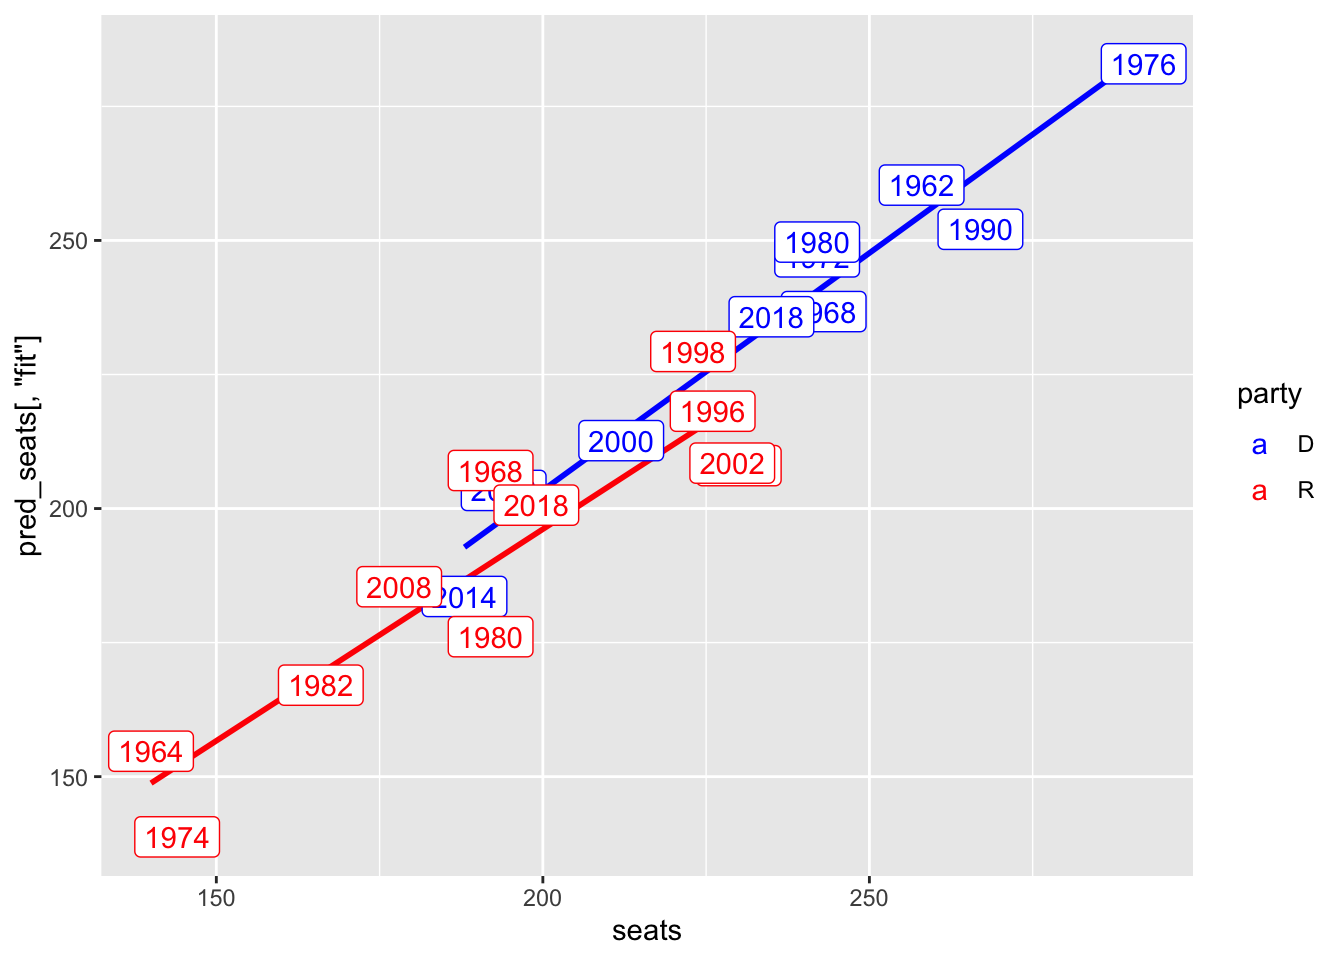
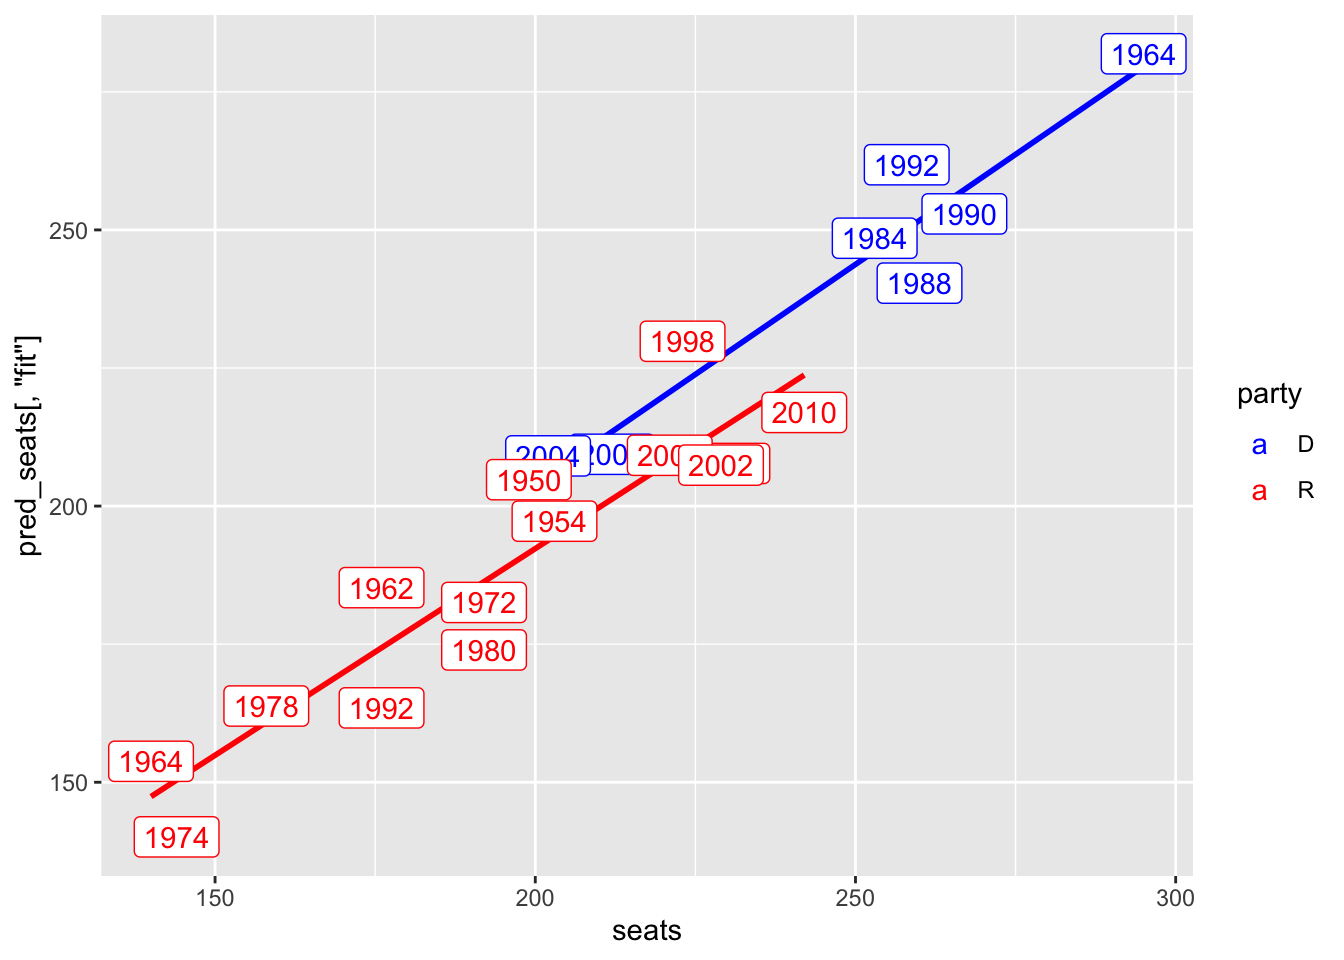
ohio prediction

diff --git a/public/post/2022-10-23-shocks/index.html b/public/post/2022-10-23-shocks/index.html
@@ -114,45 +114,45 @@ and economic data (gdp growth).</p>
 ##                                   seats      majorvote_pct
 ##                                    (1)            (2)     
 ## ----------------------------------------------------------
-## Inc_party_pres                  -60.359***     -4.450**   
-##                                  (17.301)       (2.060)   
+## Inc_party_pres                  -60.628***     -5.407***  
+##                                  (15.773)       (1.834)   
 ##                                                           
-## MidtermYear                      12.405**      2.181***   
-##                                  (5.763)        (0.751)   
+## MidtermYear                     14.767***      2.601***   
+##                                  (5.330)        (0.735)   
 ##                                                           
-## approval                        -0.647***      -0.073***  
-##                                  (0.203)        (0.024)   
+## approval                        -0.647***      -0.080***  
+##                                  (0.203)        (0.025)   
 ##                                                           
-## GDP_growth_pct                   -1.089*        -0.097    
-##                                  (0.555)        (0.067)   
+## GDP_growth_pct                   -0.929*        -0.082    
+##                                  (0.508)        (0.063)   
 ##                                                           
-## poll_pct                         2.288***      0.309***   
-##                                  (0.494)        (0.058)   
+## poll_pct                         2.124***      0.315***   
+##                                  (0.488)        (0.060)   
 ##                                                           
-## lag_seats                        0.572***                 
-##                                  (0.085)                  
+## lag_seats                        0.593***                 
+##                                  (0.073)                  
 ##                                                           
-## lag_pv                                         0.348***   
-##                                                 (0.105)   
+## lag_pv                                         0.399***   
+##                                                 (0.099)   
 ##                                                           
-## Inc_party_pres:MidtermYear      -30.712***     -4.999***  
-##                                  (9.269)        (1.251)   
+## Inc_party_pres:MidtermYear      -30.683***     -5.601***  
+##                                  (7.536)        (1.125)   
 ##                                                           
-## Inc_party_pres:approval          1.097***       0.096**   
-##                                  (0.331)        (0.039)   
+## Inc_party_pres:approval          1.080***      0.121***   
+##                                  (0.313)        (0.037)   
 ##                                                           
-## Inc_party_pres:GDP_growth_pct    1.671**         0.114    
-##                                  (0.792)        (0.097)   
+## Inc_party_pres:GDP_growth_pct    1.651**         0.129    
+##                                  (0.711)        (0.090)   
 ##                                                           
-## Constant                          28.198       22.611***  
-##                                  (17.696)       (3.983)   
+## Constant                          28.775       19.578***  
+##                                  (18.688)       (3.788)   
 ##                                                           
 ## ----------------------------------------------------------
 ## Observations                        51            51      
-## R2                                0.912          0.866    
-## Adjusted R2                       0.893          0.836    
-## Residual Std. Error (df = 41)     12.140         1.480    
-## F Statistic (df = 9; 41)        47.494***      29.412***  
+## R2                                0.924          0.890    
+## Adjusted R2                       0.907          0.866    
+## Residual Std. Error (df = 41)     11.023         1.379    
+## F Statistic (df = 9; 41)        55.141***      36.935***  
 ## ==========================================================
 ## Note:                          *p&lt;0.1; **p&lt;0.05; ***p&lt;0.01</code></pre>
 <p>As the model output shows, almost all variables are significant at the 5% level.
@@ -168,8 +168,8 @@ is uncontested.</p>
 <pre><code>## # A tibble: 2 × 4
 ##   party  year pred_seats[,&quot;fit&quot;] [,&quot;lwr&quot;] [,&quot;upr&quot;] pred_vote[,&quot;fit&quot;] [,&quot;lwr&quot;]
 ##   &lt;chr&gt; &lt;dbl&gt;              &lt;dbl&gt;    &lt;dbl&gt;    &lt;dbl&gt;             &lt;dbl&gt;    &lt;dbl&gt;
-## 1 D      2022               198.     171.     225.              48.0     44.8
-## 2 R      2022               238.     212.     264.              52.5     49.4
+## 1 D      2022               197.     174.     221.              47.6     44.6
+## 2 R      2022               238.     214.     262.              52.4     49.5
 ## # … with 1 more variable: pred_vote[3] &lt;dbl&gt;</code></pre>
 <p>As the graphs above show, the model fits fairly well across the testing dataset. And,
 the prediction for 2022 is that the Democrats will get 207 seats with the Republicans
@@ -188,12 +188,6 @@ provided by my simulations.</p>
 structure din the long format with the unit of analysis at the candidate*year. One
 important data choice was that I removed uncontested races, but included a term for
 whether the prior election was uncontested.</p>
-<pre class="r"><code>lm_oh&lt;-lm(pv2p~log(term+1)+prev+same_party*MidtermYear,data=dat)
-
-oh_22&lt;-tibble(year=c(2022,2022),party=c(&#39;R&#39;,&#39;D&#39;),term=c(16,0),Status=c(&#39;Incumbent&#39;,&#39;Challenger&#39;),prev=c(53.7,46.3),
-              MidtermYear=c(1,1),same_party=c(0,1),party_support=c(45.3,44.7))
-
-stargazer(lm_oh,type=&#39;text&#39;)</code></pre>
 <pre><code>## 
 ## ==================================================
 ##                            Dependent variable:    
@@ -226,15 +220,11 @@ stargazer(lm_oh,type=&#39;text&#39;)</code></pre>
 ## F Statistic              10.491*** (df = 5; 64)   
 ## ==================================================
 ## Note:                  *p&lt;0.1; **p&lt;0.05; ***p&lt;0.01</code></pre>
-<pre class="r"><code>oh_22$pred&lt;-predict(lm_oh,oh_22,interval=&#39;prediction&#39;)
-oh_22[,1:3,7:9]</code></pre>
-<pre><code>## Warning in drop &amp;&amp; length(xo) == 1L: &#39;length(x) = 3 &gt; 1&#39; in coercion to
-## &#39;logical(1)&#39;</code></pre>
-<pre><code>## # A tibble: 2 × 3
-##    year party  term
-##   &lt;dbl&gt; &lt;chr&gt; &lt;dbl&gt;
-## 1  2022 R        16
-## 2  2022 D         0</code></pre>
+<pre><code>## # A tibble: 2 × 6
+##    year party  term same_party party_support pred[,&quot;fit&quot;] [,&quot;lwr&quot;] [,&quot;upr&quot;]
+##   &lt;dbl&gt; &lt;chr&gt; &lt;dbl&gt;      &lt;dbl&gt;         &lt;dbl&gt;        &lt;dbl&gt;    &lt;dbl&gt;    &lt;dbl&gt;
+## 1  2022 R        16          0          45.3         65.3     46.3     84.2
+## 2  2022 D         0          1          44.7         41.7     23.5     59.8</code></pre>
 <p>This model for Ohio-01 predicts that Incumbent Steve Chabot (R) will receive about 65% of the vote,
 while challenger Greg Landsman (D) will get about 42% of the vote. This is very different
 from the few polls that have been released, suggesting each candidate is at about 47% of the vote.
@@ -261,7 +251,7 @@ because there are so few years that have data with this information.</p>
         		<footer>
 			
 			<span>
-			&copy; <time datetime="2022-10-26 13:24:55.371772 -0400 EDT m=&#43;0.183934542">2022</time> . Made with <a href='https://gohugo.io'>Hugo</a> using the <a href='https://github.com/EmielH/tale-hugo/'>Tale</a> theme.
+			&copy; <time datetime="2022-10-26 13:35:22.703847 -0400 EDT m=&#43;0.183132918">2022</time> . Made with <a href='https://gohugo.io'>Hugo</a> using the <a href='https://github.com/EmielH/tale-hugo/'>Tale</a> theme.
 			</span>
 		</footer>
 

diff --git a/content/post/2022-10-23-shocks/index.html b/content/post/2022-10-23-shocks/index.html
@@ -64,45 +64,45 @@ and economic data (gdp growth).</p>
 ##                                   seats      majorvote_pct
 ##                                    (1)            (2)     
 ## ----------------------------------------------------------
-## Inc_party_pres                  -60.359***     -4.450**   
-##                                  (17.301)       (2.060)   
+## Inc_party_pres                  -60.628***     -5.407***  
+##                                  (15.773)       (1.834)   
 ##                                                           
-## MidtermYear                      12.405**      2.181***   
-##                                  (5.763)        (0.751)   
+## MidtermYear                     14.767***      2.601***   
+##                                  (5.330)        (0.735)   
 ##                                                           
-## approval                        -0.647***      -0.073***  
-##                                  (0.203)        (0.024)   
+## approval                        -0.647***      -0.080***  
+##                                  (0.203)        (0.025)   
 ##                                                           
-## GDP_growth_pct                   -1.089*        -0.097    
-##                                  (0.555)        (0.067)   
+## GDP_growth_pct                   -0.929*        -0.082    
+##                                  (0.508)        (0.063)   
 ##                                                           
-## poll_pct                         2.288***      0.309***   
-##                                  (0.494)        (0.058)   
+## poll_pct                         2.124***      0.315***   
+##                                  (0.488)        (0.060)   
 ##                                                           
-## lag_seats                        0.572***                 
-##                                  (0.085)                  
+## lag_seats                        0.593***                 
+##                                  (0.073)                  
 ##                                                           
-## lag_pv                                         0.348***   
-##                                                 (0.105)   
+## lag_pv                                         0.399***   
+##                                                 (0.099)   
 ##                                                           
-## Inc_party_pres:MidtermYear      -30.712***     -4.999***  
-##                                  (9.269)        (1.251)   
+## Inc_party_pres:MidtermYear      -30.683***     -5.601***  
+##                                  (7.536)        (1.125)   
 ##                                                           
-## Inc_party_pres:approval          1.097***       0.096**   
-##                                  (0.331)        (0.039)   
+## Inc_party_pres:approval          1.080***      0.121***   
+##                                  (0.313)        (0.037)   
 ##                                                           
-## Inc_party_pres:GDP_growth_pct    1.671**         0.114    
-##                                  (0.792)        (0.097)   
+## Inc_party_pres:GDP_growth_pct    1.651**         0.129    
+##                                  (0.711)        (0.090)   
 ##                                                           
-## Constant                          28.198       22.611***  
-##                                  (17.696)       (3.983)   
+## Constant                          28.775       19.578***  
+##                                  (18.688)       (3.788)   
 ##                                                           
 ## ----------------------------------------------------------
 ## Observations                        51            51      
-## R2                                0.912          0.866    
-## Adjusted R2                       0.893          0.836    
-## Residual Std. Error (df = 41)     12.140         1.480    
-## F Statistic (df = 9; 41)        47.494***      29.412***  
+## R2                                0.924          0.890    
+## Adjusted R2                       0.907          0.866    
+## Residual Std. Error (df = 41)     11.023         1.379    
+## F Statistic (df = 9; 41)        55.141***      36.935***  
 ## ==========================================================
 ## Note:                          *p&lt;0.1; **p&lt;0.05; ***p&lt;0.01</code></pre>
 <p>As the model output shows, almost all variables are significant at the 5% level.
@@ -118,8 +118,8 @@ is uncontested.</p>
 <pre><code>## # A tibble: 2 × 4
 ##   party  year pred_seats[,&quot;fit&quot;] [,&quot;lwr&quot;] [,&quot;upr&quot;] pred_vote[,&quot;fit&quot;] [,&quot;lwr&quot;]
 ##   &lt;chr&gt; &lt;dbl&gt;              &lt;dbl&gt;    &lt;dbl&gt;    &lt;dbl&gt;             &lt;dbl&gt;    &lt;dbl&gt;
-## 1 D      2022               198.     171.     225.              48.0     44.8
-## 2 R      2022               238.     212.     264.              52.5     49.4
+## 1 D      2022               197.     174.     221.              47.6     44.6
+## 2 R      2022               238.     214.     262.              52.4     49.5
 ## # … with 1 more variable: pred_vote[3] &lt;dbl&gt;</code></pre>
 <p>As the graphs above show, the model fits fairly well across the testing dataset. And,
 the prediction for 2022 is that the Democrats will get 207 seats with the Republicans
@@ -138,12 +138,6 @@ provided by my simulations.</p>
 structure din the long format with the unit of analysis at the candidate*year. One
 important data choice was that I removed uncontested races, but included a term for
 whether the prior election was uncontested.</p>
-<pre class="r"><code>lm_oh&lt;-lm(pv2p~log(term+1)+prev+same_party*MidtermYear,data=dat)
-
-oh_22&lt;-tibble(year=c(2022,2022),party=c(&#39;R&#39;,&#39;D&#39;),term=c(16,0),Status=c(&#39;Incumbent&#39;,&#39;Challenger&#39;),prev=c(53.7,46.3),
-              MidtermYear=c(1,1),same_party=c(0,1),party_support=c(45.3,44.7))
-
-stargazer(lm_oh,type=&#39;text&#39;)</code></pre>
 <pre><code>## 
 ## ==================================================
 ##                            Dependent variable:    
@@ -176,15 +170,11 @@ stargazer(lm_oh,type=&#39;text&#39;)</code></pre>
 ## F Statistic              10.491*** (df = 5; 64)   
 ## ==================================================
 ## Note:                  *p&lt;0.1; **p&lt;0.05; ***p&lt;0.01</code></pre>
-<pre class="r"><code>oh_22$pred&lt;-predict(lm_oh,oh_22,interval=&#39;prediction&#39;)
-oh_22[,1:3,7:9]</code></pre>
-<pre><code>## Warning in drop &amp;&amp; length(xo) == 1L: &#39;length(x) = 3 &gt; 1&#39; in coercion to
-## &#39;logical(1)&#39;</code></pre>
-<pre><code>## # A tibble: 2 × 3
-##    year party  term
-##   &lt;dbl&gt; &lt;chr&gt; &lt;dbl&gt;
-## 1  2022 R        16
-## 2  2022 D         0</code></pre>
+<pre><code>## # A tibble: 2 × 6
+##    year party  term same_party party_support pred[,&quot;fit&quot;] [,&quot;lwr&quot;] [,&quot;upr&quot;]
+##   &lt;dbl&gt; &lt;chr&gt; &lt;dbl&gt;      &lt;dbl&gt;         &lt;dbl&gt;        &lt;dbl&gt;    &lt;dbl&gt;    &lt;dbl&gt;
+## 1  2022 R        16          0          45.3         65.3     46.3     84.2
+## 2  2022 D         0          1          44.7         41.7     23.5     59.8</code></pre>
 <p>This model for Ohio-01 predicts that Incumbent Steve Chabot (R) will receive about 65% of the vote,
 while challenger Greg Landsman (D) will get about 42% of the vote. This is very different
 from the few polls that have been released, suggesting each candidate is at about 47% of the vote.

diff --git a/public/post/2022-09-10-blog-post-1/index.html b/public/post/2022-09-10-blog-post-1/index.html
@@ -134,7 +134,7 @@ seat share, so this blog is more exploring trends than asserting exact ramificat
         		<footer>
 			
 			<span>
-			&copy; <time datetime="2022-10-26 13:24:55.397489 -0400 EDT m=&#43;0.209652501">2022</time> . Made with <a href='https://gohugo.io'>Hugo</a> using the <a href='https://github.com/EmielH/tale-hugo/'>Tale</a> theme.
+			&copy; <time datetime="2022-10-26 13:35:22.724141 -0400 EDT m=&#43;0.203428043">2022</time> . Made with <a href='https://gohugo.io'>Hugo</a> using the <a href='https://github.com/EmielH/tale-hugo/'>Tale</a> theme.
 			</span>
 		</footer>
 

diff --git a/public/post/2022-10-07-air-war/index.html b/public/post/2022-10-07-air-war/index.html
@@ -203,7 +203,7 @@ translation can be tricky being calculated in terms of log odds. Finally, I will
         		<footer>
 			
 			<span>
-			&copy; <time datetime="2022-10-26 13:24:55.364309 -0400 EDT m=&#43;0.176471084">2022</time> . Made with <a href='https://gohugo.io'>Hugo</a> using the <a href='https://github.com/EmielH/tale-hugo/'>Tale</a> theme.
+			&copy; <time datetime="2022-10-26 13:35:22.696801 -0400 EDT m=&#43;0.176087459">2022</time> . Made with <a href='https://gohugo.io'>Hugo</a> using the <a href='https://github.com/EmielH/tale-hugo/'>Tale</a> theme.
 			</span>
 		</footer>
 

diff --git a/public/post/2022-09-15-blog-post-2-economy/index.html b/public/post/2022-09-15-blog-post-2-economy/index.html
@@ -234,7 +234,7 @@ have grand implications for house popular vote/seat share.</p>
         		<footer>
 			
 			<span>
-			&copy; <time datetime="2022-10-26 13:24:55.412441 -0400 EDT m=&#43;0.224604376">2022</time> . Made with <a href='https://gohugo.io'>Hugo</a> using the <a href='https://github.com/EmielH/tale-hugo/'>Tale</a> theme.
+			&copy; <time datetime="2022-10-26 13:35:22.747122 -0400 EDT m=&#43;0.226408918">2022</time> . Made with <a href='https://gohugo.io'>Hugo</a> using the <a href='https://github.com/EmielH/tale-hugo/'>Tale</a> theme.
 			</span>
 		</footer>
 

diff --git a/public/post/2022-10-01-incumbency/index.html b/public/post/2022-10-01-incumbency/index.html
@@ -356,7 +356,7 @@ to better model these two variables.</p>
         		<footer>
 			
 			<span>
-			&copy; <time datetime="2022-10-26 13:24:55.399613 -0400 EDT m=&#43;0.211776501">2022</time> . Made with <a href='https://gohugo.io'>Hugo</a> using the <a href='https://github.com/EmielH/tale-hugo/'>Tale</a> theme.
+			&copy; <time datetime="2022-10-26 13:35:22.727545 -0400 EDT m=&#43;0.206831334">2022</time> . Made with <a href='https://gohugo.io'>Hugo</a> using the <a href='https://github.com/EmielH/tale-hugo/'>Tale</a> theme.
 			</span>
 		</footer>
 

diff --git a/public/post/2022-10-16-ground-game/index.html b/public/post/2022-10-16-ground-game/index.html
@@ -212,7 +212,7 @@ so it is more fit for models.</p>
         		<footer>
 			
 			<span>
-			&copy; <time datetime="2022-10-26 13:24:55.36432 -0400 EDT m=&#43;0.176481876">2022</time> . Made with <a href='https://gohugo.io'>Hugo</a> using the <a href='https://github.com/EmielH/tale-hugo/'>Tale</a> theme.
+			&copy; <time datetime="2022-10-26 13:35:22.696846 -0400 EDT m=&#43;0.176132126">2022</time> . Made with <a href='https://gohugo.io'>Hugo</a> using the <a href='https://github.com/EmielH/tale-hugo/'>Tale</a> theme.
 			</span>
 		</footer>
 

diff --git a/public/post/2022-09-23-polling/index.html b/public/post/2022-09-23-polling/index.html
@@ -210,7 +210,7 @@ my model and generic
         		<footer>
 			
 			<span>
-			&copy; <time datetime="2022-10-26 13:24:55.410104 -0400 EDT m=&#43;0.222267542">2022</time> . Made with <a href='https://gohugo.io'>Hugo</a> using the <a href='https://github.com/EmielH/tale-hugo/'>Tale</a> theme.
+			&copy; <time datetime="2022-10-26 13:35:22.743927 -0400 EDT m=&#43;0.223214543">2022</time> . Made with <a href='https://gohugo.io'>Hugo</a> using the <a href='https://github.com/EmielH/tale-hugo/'>Tale</a> theme.
 			</span>
 		</footer>
 

diff --git a/public/index.html b/public/index.html
@@ -157,7 +157,7 @@
         		<footer>
 			
 			<span>
-			&copy; <time datetime="2022-10-26 13:24:55.361524 -0400 EDT m=&#43;0.173686042">2022</time> . Made with <a href='https://gohugo.io'>Hugo</a> using the <a href='https://github.com/EmielH/tale-hugo/'>Tale</a> theme.
+			&copy; <time datetime="2022-10-26 13:35:22.693871 -0400 EDT m=&#43;0.173156959">2022</time> . Made with <a href='https://gohugo.io'>Hugo</a> using the <a href='https://github.com/EmielH/tale-hugo/'>Tale</a> theme.
 			</span>
 		</footer>
 

diff --git a/public/post/index.html b/public/post/index.html
@@ -152,7 +152,7 @@
         		<footer>
 			
 			<span>
-			&copy; <time datetime="2022-10-26 13:24:55.365233 -0400 EDT m=&#43;0.177395334">2022</time> . Made with <a href='https://gohugo.io'>Hugo</a> using the <a href='https://github.com/EmielH/tale-hugo/'>Tale</a> theme.
+			&copy; <time datetime="2022-10-26 13:35:22.699457 -0400 EDT m=&#43;0.178742918">2022</time> . Made with <a href='https://gohugo.io'>Hugo</a> using the <a href='https://github.com/EmielH/tale-hugo/'>Tale</a> theme.
 			</span>
 		</footer>
 

diff --git a/public/categories/index.html b/public/categories/index.html
@@ -57,7 +57,7 @@
         		<footer>
 			
 			<span>
-			&copy; <time datetime="2022-10-26 13:24:55.366431 -0400 EDT m=&#43;0.178593209">2022</time> . Made with <a href='https://gohugo.io'>Hugo</a> using the <a href='https://github.com/EmielH/tale-hugo/'>Tale</a> theme.
+			&copy; <time datetime="2022-10-26 13:35:22.698512 -0400 EDT m=&#43;0.177798043">2022</time> . Made with <a href='https://gohugo.io'>Hugo</a> using the <a href='https://github.com/EmielH/tale-hugo/'>Tale</a> theme.
 			</span>
 		</footer>
 

diff --git a/public/tags/index.html b/public/tags/index.html
@@ -57,7 +57,7 @@
         		<footer>
 			
 			<span>
-			&copy; <time datetime="2022-10-26 13:24:55.370243 -0400 EDT m=&#43;0.182405542">2022</time> . Made with <a href='https://gohugo.io'>Hugo</a> using the <a href='https://github.com/EmielH/tale-hugo/'>Tale</a> theme.
+			&copy; <time datetime="2022-10-26 13:35:22.699329 -0400 EDT m=&#43;0.178614876">2022</time> . Made with <a href='https://gohugo.io'>Hugo</a> using the <a href='https://github.com/EmielH/tale-hugo/'>Tale</a> theme.
 			</span>
 		</footer>
 
